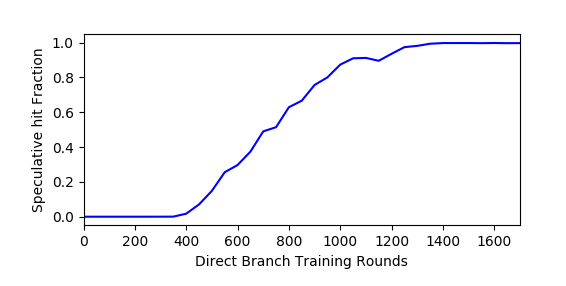
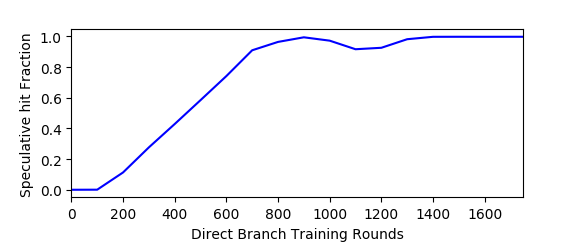
added implementation section for spectre 1.1

diff --git a/paper/implementation.tex b/paper/implementation.tex
@@ -143,7 +143,7 @@ decrypt the ciphertext in the payload.
 
 \FigSpecBandwidth
 
-\subsection{Virtual Machine}
+\subsection{Emulator}
 \label{subsec:spasm}
 
 % \subsubsection{SPASM}
@@ -292,5 +292,40 @@ Apache benchmark to create thousands of connections with a different cipher
 suite (DHE-RSA-AES128-GCM-SHA256), we similarly saw no speculation at the entry point. This
 could allow an adversary to use an obscure or uncommon cipher suite to trigger a
 malicious \speculake payload program on a remote server.
+
+
+
+\subsection{Speculative Buffer Overflow Trigger}
+\label{subsec:openssl-impl}
+
+\FigSpectreOne
+
+To demonstrate the adaptability of this attack we have implemented the 
+Speculative Buffer Overflow alternative trigger and assembled an \speculake 
+payload. 
+
+We make use of text input as the trigger to the payload program in this case,
+where an input file contains entries specifying length, padding length,
+and data value. When a line is read the payload program makes a bounds
+check on the length of padding then stores the data at that offset in a
+local array. 
+
+The local array store is now the vulnerability it can be exploited even 
+with complete bounds checks. After a series of honest inputs we include 
+an entry with a padding length beyond the maximum. On the runs with this
+cafted input we flush from cache the maximum padding length constant in 
+the payload program, preventing the bounds check from being resolved 
+and allowing the data value to be speculatively stored. We 
+then speculatively overwrite the return address and use store-to-load forwarding
+to cause a following return to divert to the address specified by the data entry. 
+From here we make use of the decryption gadget to dcecrypt SPASM instructions
+from an encrypted data blob to be transmitted to the real world via cache 
+side-channel. Using this method we have been able to run all SPASM payloads 
+including the reverse-shell. 
+
+We note significant unpredictability in the branch predictor, though we
+show in Figure~\ref{fig:spectre-one} that a minimum around 200 safe input entries
+to each dishonest entry are required before a distinguishable signal is present 
+in the cache channel. 
 
 %%%%%%%%%%%%%%

diff --git a/paper/figures.tex b/paper/figures.tex
@@ -41,6 +41,25 @@
 }
 
 
+\newcommand{\FigSpectreOneModel}{
+\begin{figure}[ht]
+    \centering
+    \includegraphics[width=0.9\linewidth]{figures/spectre_1_model.png}
+    \caption{\textbf{Speculative Buffer Overflow}\,---\, %
+    Safe input values are stored into a local array (Step 1),
+    training the branch predictor to bypass the bounds check when given
+    unsafe input (Step 2). This results in a speculative array store which
+    overflows the bounds and overwrite a return address (Step 3). The CPU's 
+    store-to-load forwarding will forward the speculative overflow to the 
+    return (Step 4), where it will steer speculative execution to the 
+    attacker-specified speculative entry point (Step 5). Eventually, the 
+    original bounds check is resolved and control flow is redirected to the 
+    cache timing function (Step 6). }
+    \label{fig:spectre-one-model}
+\end{figure}
+}
+
+
 \newcommand{\FigSpecMeasureNP}{
 \begin{figure*}[t]
      \centering

diff --git a/paper/triggers.tex b/paper/triggers.tex
@@ -62,8 +62,6 @@ from the real world for keeping state.
 \subsection{Speculative Buffer Overflow}
 \label{subsec:spec-buffer-overflow}
 
-\FigSpectreOne
-
 In addition to using separate trigger programs, ExSpectre can also use
 \emph{trigger inputs} to a payload program to initiate its malicious behavior.
 While existing fuzzers and symbolic execution tools can discover traditional
